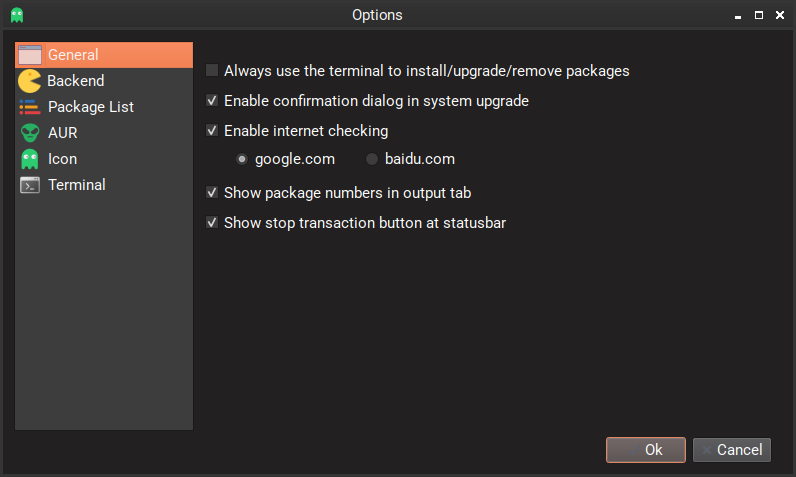
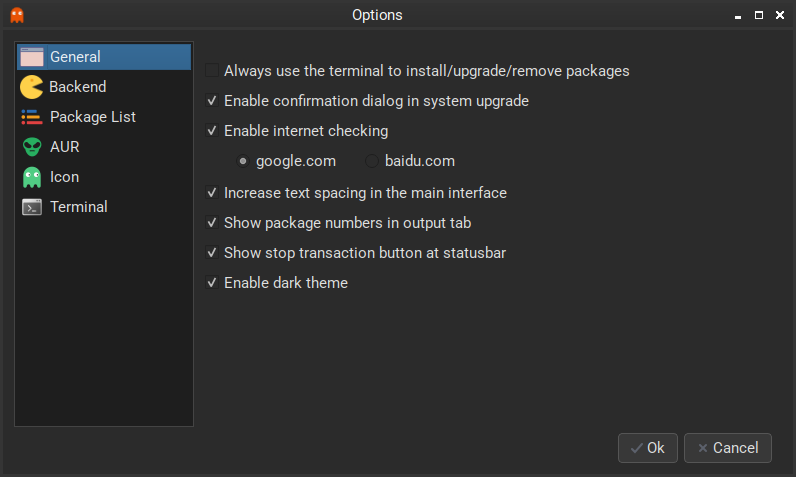
new pngs

diff --git a/README.md b/README.md
@@ -1,6 +1,6 @@
 ## This is Octopi, a powerful Pacman/AUR front end using Qt libs.
 
-![Main window](https://raw.githubusercontent.com/aarnt/octopi/master/octopi-mainwindow.png)
+![Main window](https://raw.githubusercontent.com/aarnt/octopi/master/octopi-mainwindow-dark.png)
 ![Options dialog](https://raw.githubusercontent.com/aarnt/octopi/master/octopi-optionsdialog.png)
 ![Main window with qss](https://raw.githubusercontent.com/aarnt/octopi/master/octopi-mainwindow-with-qss.png)
 